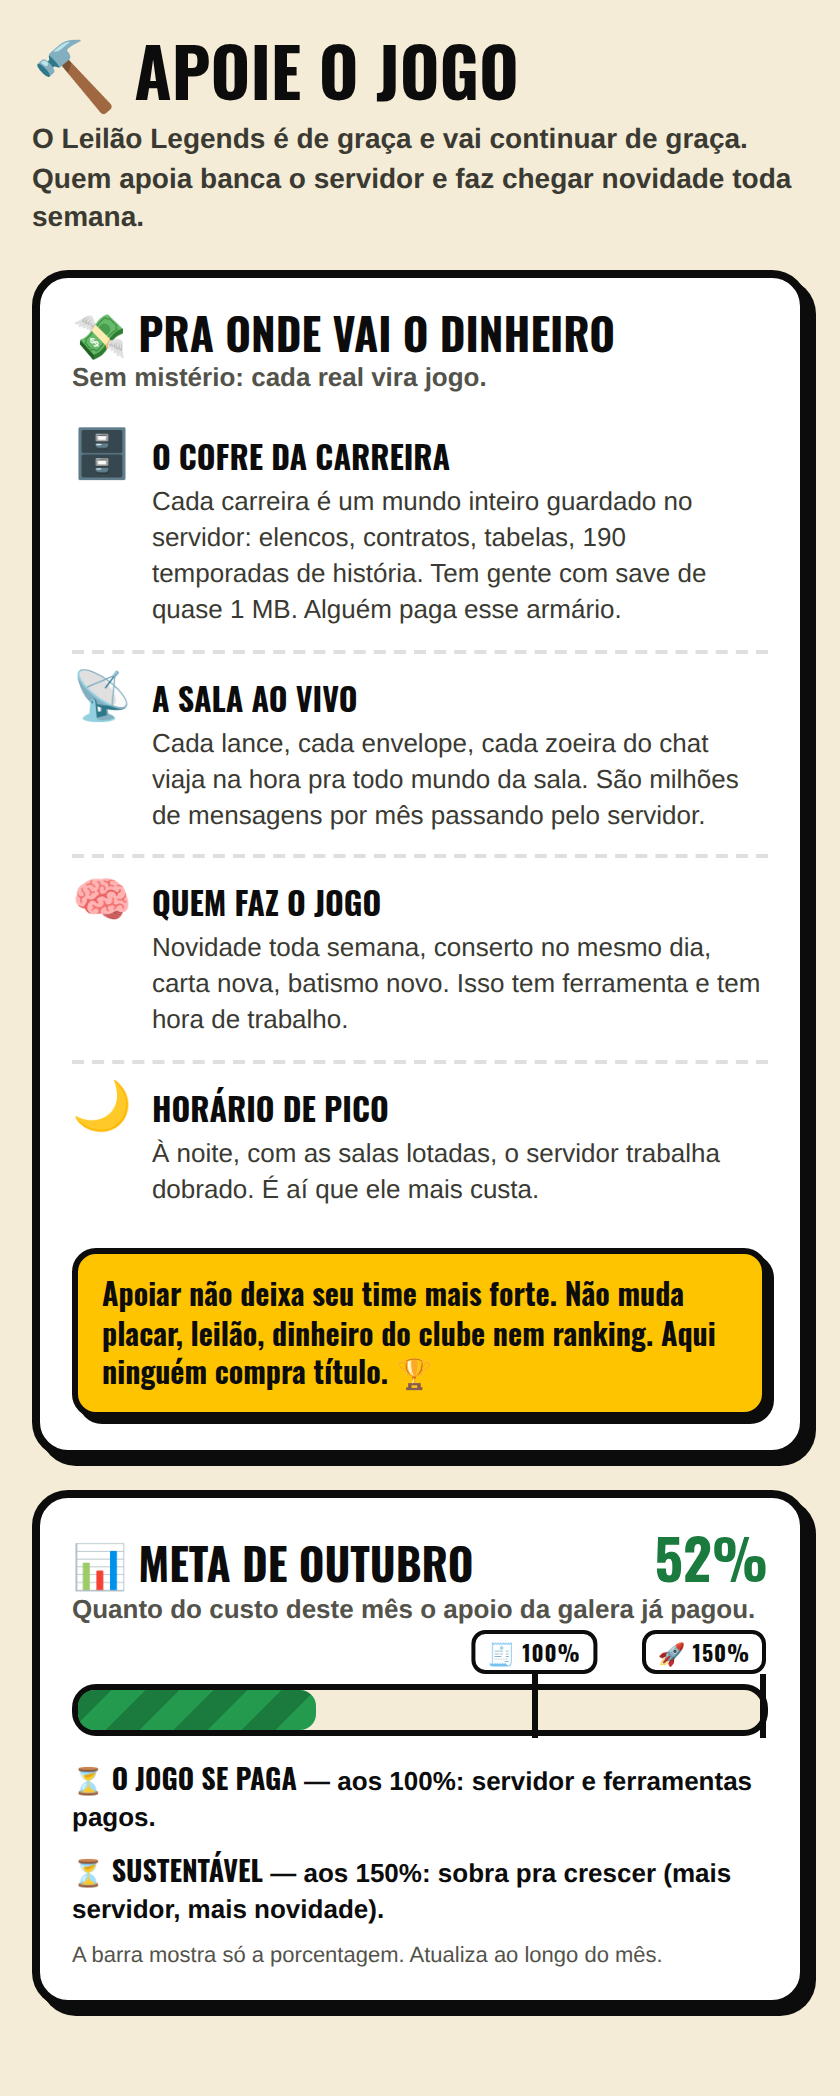
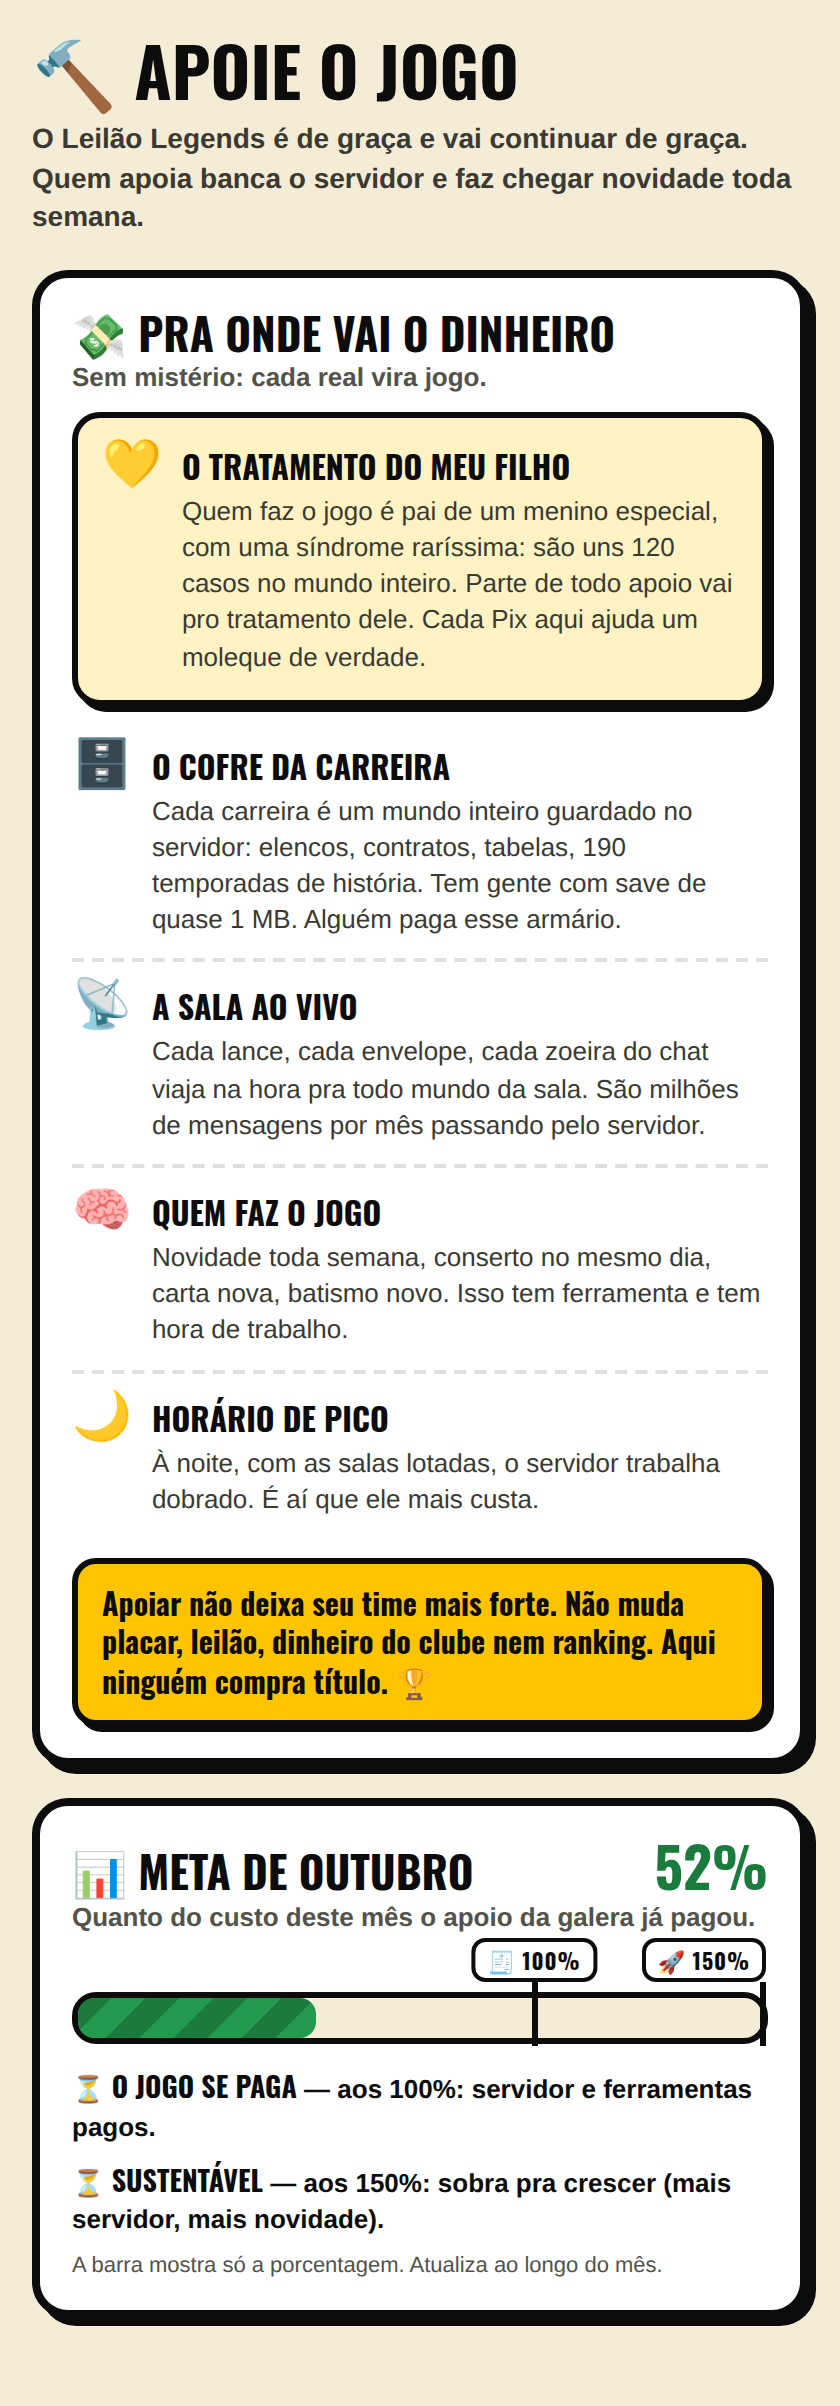
Mockup do apoie: item do tratamento do filho do Diego em primeiro na lista
Claude-Session: https://claude.ai/code/session_018Ap1zPCMVL9XeZJN3u93ZA

diff --git a/docs/pendencias.md b/docs/pendencias.md
@@ -3,7 +3,7 @@ Falha: *"🙈 jogo de copa só conta com a Copa encerrada na tela (sem spoiler)"
 
 ## 💸 Apoie: "Pra onde vai o dinheiro" + META DO MÊS (13/10) — ⏳ MOCKUP ENVIADO, esperando OK e 2 números
 Diego mandou o print do Brasileirinho: *"dizer aonde vai o dinheiro mas sempre com nossa forma de falar… padrões visuais"* + barra do mês (recebido × custo: Supabase + ~600 de Claude), com marca de "o jogo se paga" (100%) e "sustentável" (lucro; mockup usa 150%). Mockup `scripts/mockup-apoie-dinheiro.mjs` → `scripts/mockups/apoie-dinheiro.png` (52% é EXEMPLO).
-⚠ O jogo NÃO tem registro dos Pix recebidos (`esc_pagamentos` vazia — Mercado Pago ainda não ligado). Estimativa de outubro pelo que foi liberado no banco: 10 batismos (~R$ 650) + 16 ouros e 12 pratas mexidos no mês (parte é batismo/renovação) → algo na faixa de R$ 1.100. Falta o Diego dizer: quanto ENTROU de verdade e quanto o Supabase cobrou (e se os 600 de Claude são reais ou dólar). Ideia de produção: tabela de meta do mês que só o Diego edita (custo + recebido) e a tela mostra só a %.
+⚠ O jogo NÃO tem registro dos Pix recebidos (`esc_pagamentos` vazia — Mercado Pago ainda não ligado). Estimativa de outubro pelo que foi liberado no banco: 10 batismos (~R$ 650) + 16 ouros e 12 pratas mexidos no mês (parte é batismo/renovação) → algo na faixa de R$ 1.100. Falta o Diego dizer: quanto ENTROU de verdade e quanto o Supabase cobrou (e se os 600 de Claude são reais ou dólar). 💛 Diego pediu (13/10) o item "O tratamento do meu filho" — síndrome rara, ~120 casos no mundo — e em PRIMEIRO na lista. Não inventar nome do filho nem da síndrome. Ideia de produção: tabela de meta do mês que só o Diego edita (custo + recebido) e a tela mostra só a %.
 
 ## 📱☁ "Volto e estou na 189 de novo" — Pé de Breque (13/10) — ✅ CONSERTADO
 Causa: aparelho CHEIO (save de ~1 MB, 193 temporadas). O autosave no aparelho falhava CALADO e a cópia dele ficou na 189; o "Sair e salvar" subia a certa (193) pra nuvem e marcava o carimbo como "aparelho em dia" — então a home nunca mais baixava e o Continuar abria a 189. Diego: *"ele tem que usar o save onde ele quiser, seja PC, Chrome, celular"*.
